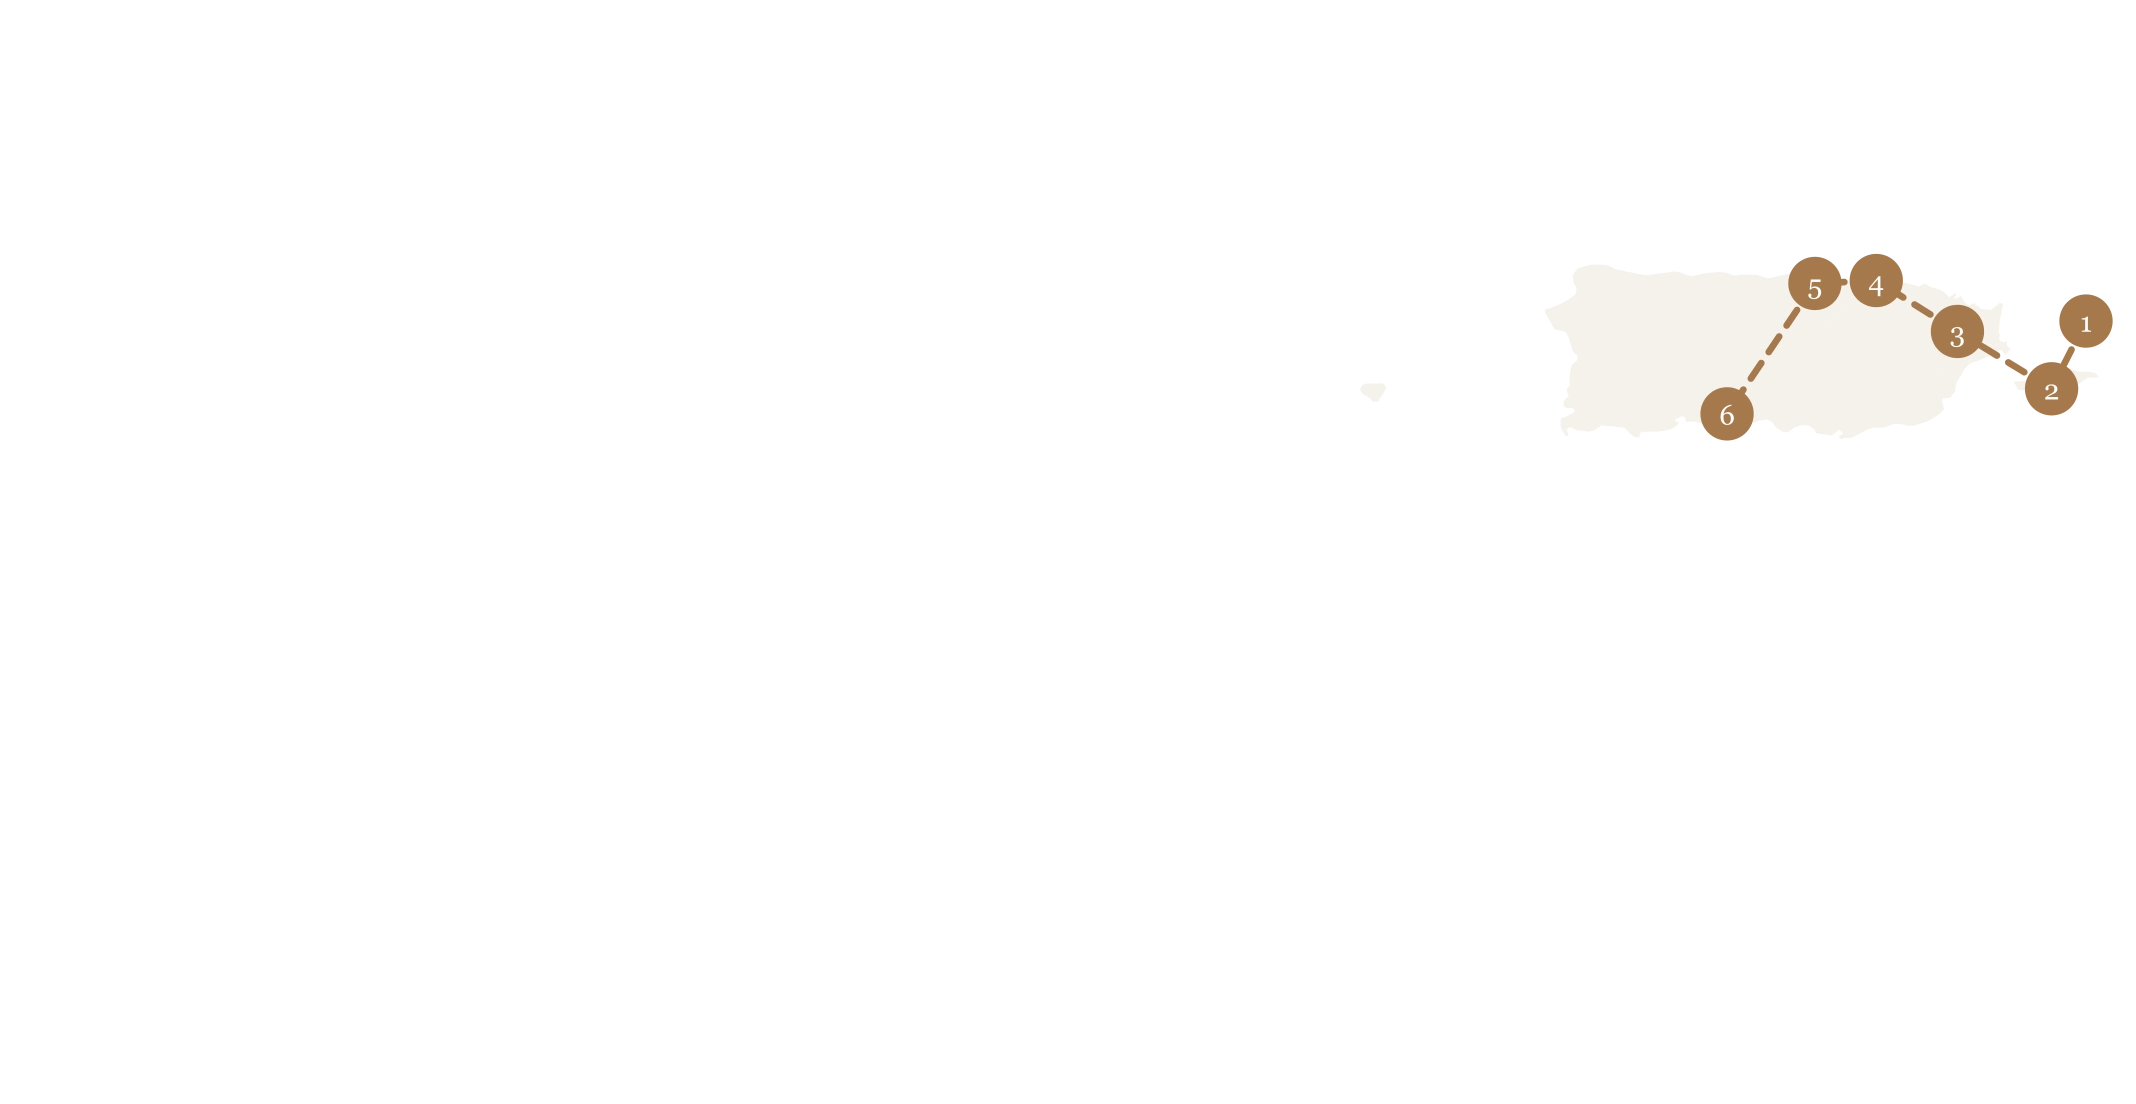
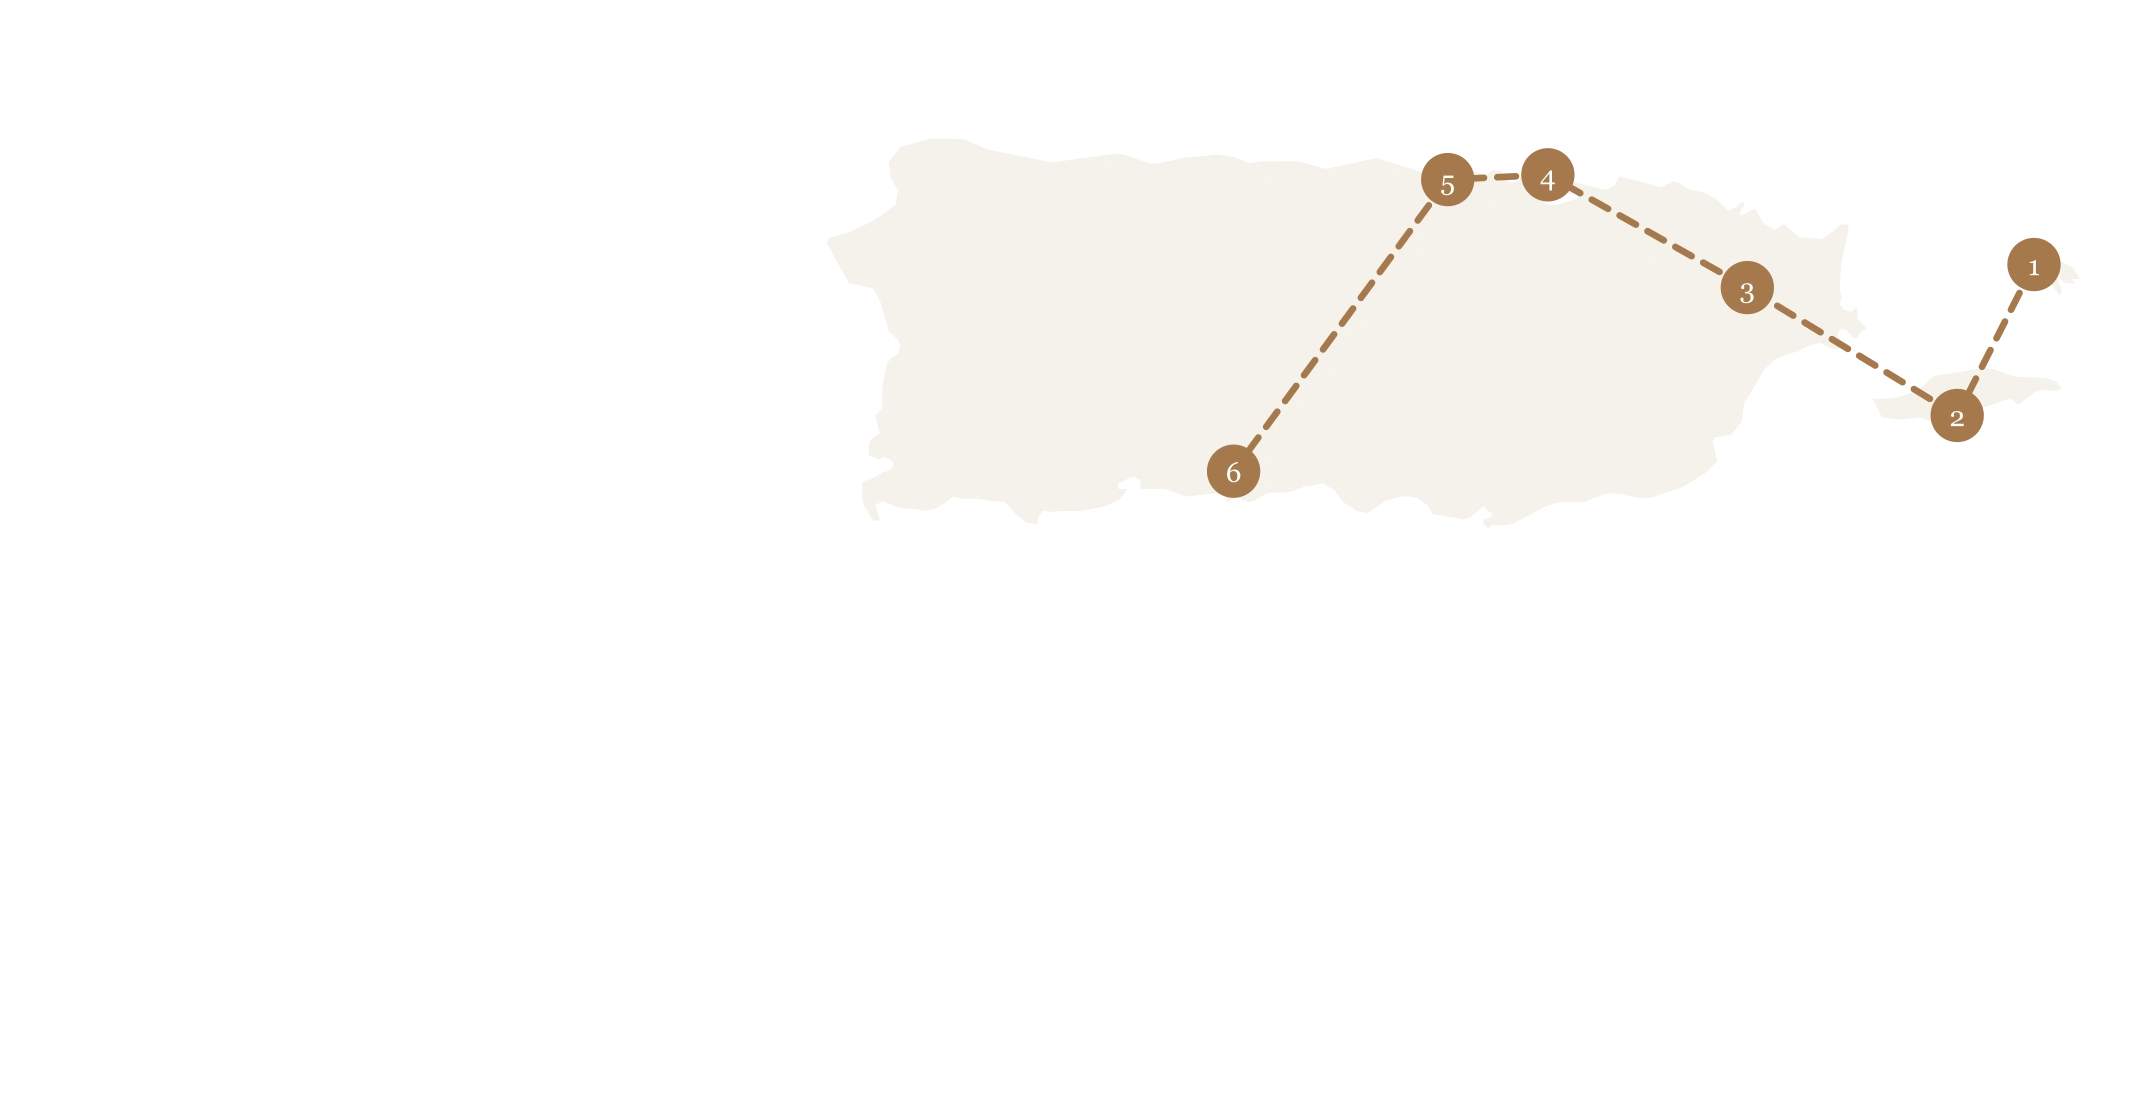
Porto Rico : St. Regis, carte du bento agrandie

diff --git a/src/content/accommodations/st-regis-bahia-beach.tsx b/src/content/accommodations/st-regis-bahia-beach.tsx
@@ -7,7 +7,7 @@ export const accommodation: Accommodation = {
     "Une réserve naturelle de deux cents hectares au pied d'El Yunque, à Río Grande. Le golf signé Robert Trent Jones II longe une plage où nichent les tortues luths.",
   keywords: ["porto rico", "el yunque", "rio grande", "golf", "reserve naturelle"],
   heroImage: {
-    src: "/destination/porto-rico/hotel-st-regis-bahia-beach.png",
+    src: "/destination/porto-rico/hotel-st-regis-bahia-beach.webp",
     alt: "Plage et palmeraie du St. Regis Bahia Beach Resort près d'El Yunque",
   },
   destinationSlugs: ["porto-rico"],

diff --git a/references/destination/porto-rico/SOURCES.md b/references/destination/porto-rico/SOURCES.md
@@ -53,3 +53,4 @@ Each generated image in `public/destination/porto-rico/` was produced by feeding
 - `xp-ron-del-barrilito.webp` : Tripadvisor https://media-cdn.tripadvisor.com/media/attractions-splice-spp-720x480/13/47/23/b8.jpg — recadré carré, agrandissement fidèle (Gemini). ⚠ droits à vérifier.
 - `xp-catamaran-culebra.webp` : vignette Google (encrypted-tbn0.gstatic.com, 259 px) — redessinée en haute définition par IA (Gemini) sur la même composition. ⚠ droits à vérifier.
 - `hotel-dorado-beach.webp` : Tripadvisor https://dynamic-media-cdn.tripadvisor.com/media/photo-o/17/e9/15/08/dorado-beach-a-ritz-carlton.jpg — recadré carré. ⚠ droits à vérifier.
+- `hotel-st-regis-bahia-beach.webp` : Kenneth Cobonpue (projet St. Regis Bahia Beach) — https://api.kennethcobonpue.com/storage/uploads/project/2024-05-27/2024-05-27_14-35-24-890835.webp — recadré carré, saturation réduite. ⚠ droits à vérifier.
